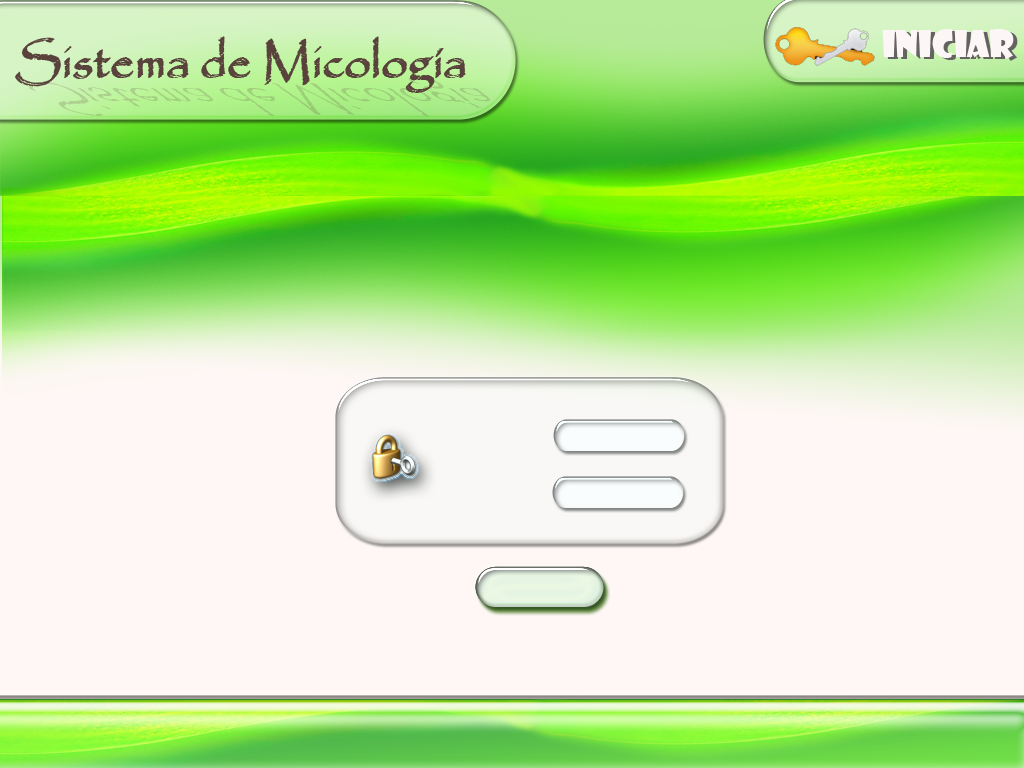
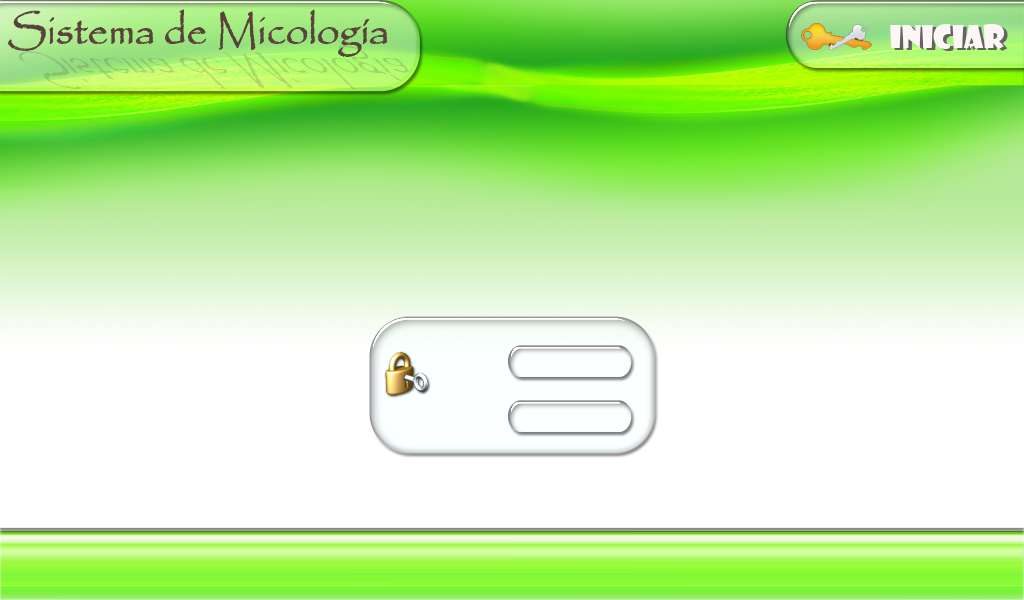
Modificación de la imagen de fondo para el usuario Medico. El cual tiene vinculado un nuevo estilo CSS para el botón de aceptar.

diff --git a/app/webroot/css/top_menu.css b/app/webroot/css/top_menu.css
@@ -73,14 +73,47 @@
 */
 .top_menu_login_doc_izquierdo{
     background-image: url('../img/img_formulari_inicio/fondo_inici_izq.png');
-    height: 768px;
+    height: 600px;
 }
 .top_menu_login_doc_center{
     background-image: url('../img/img_formulari_inicio/fondo_inicio_total.png');
-    height: 768px;
+    height: 600px;
     width: 1024px;
 }
 .top_menu_login_doc_derecho{
     background-image: url('../img/img_formulari_inicio/fondo_inici_dere.png');
-    height: 768px;
+    height: 600px;
 }
+/*Boton Configuracion*/ 
+.boton_medico_conf 
+    {
+        margin-top: -10px; 
+        font:11px georgia;
+    	font-weight:bold;
+    	text-align:center;
+	}
+
+#boton_medico_conf 
+    {
+    	
+    	width: 125px;
+    	height: 39px;
+    	background-image:url(../img/img_formulari_inicio/medico_bot_0.png);
+ 	}
+	
+#boton_medico_conf a
+    {
+        text-decoration:none;
+        width: 125px;
+        height: 39px;
+        display: block;
+        color:#2779AA;
+    }
+
+#boton_medico_conf a:hover
+    {
+        text-decoration:none;
+        background:url(../img/img_formulari_inicio/medico_bot_1.png);
+        color: white;
+    }
+
